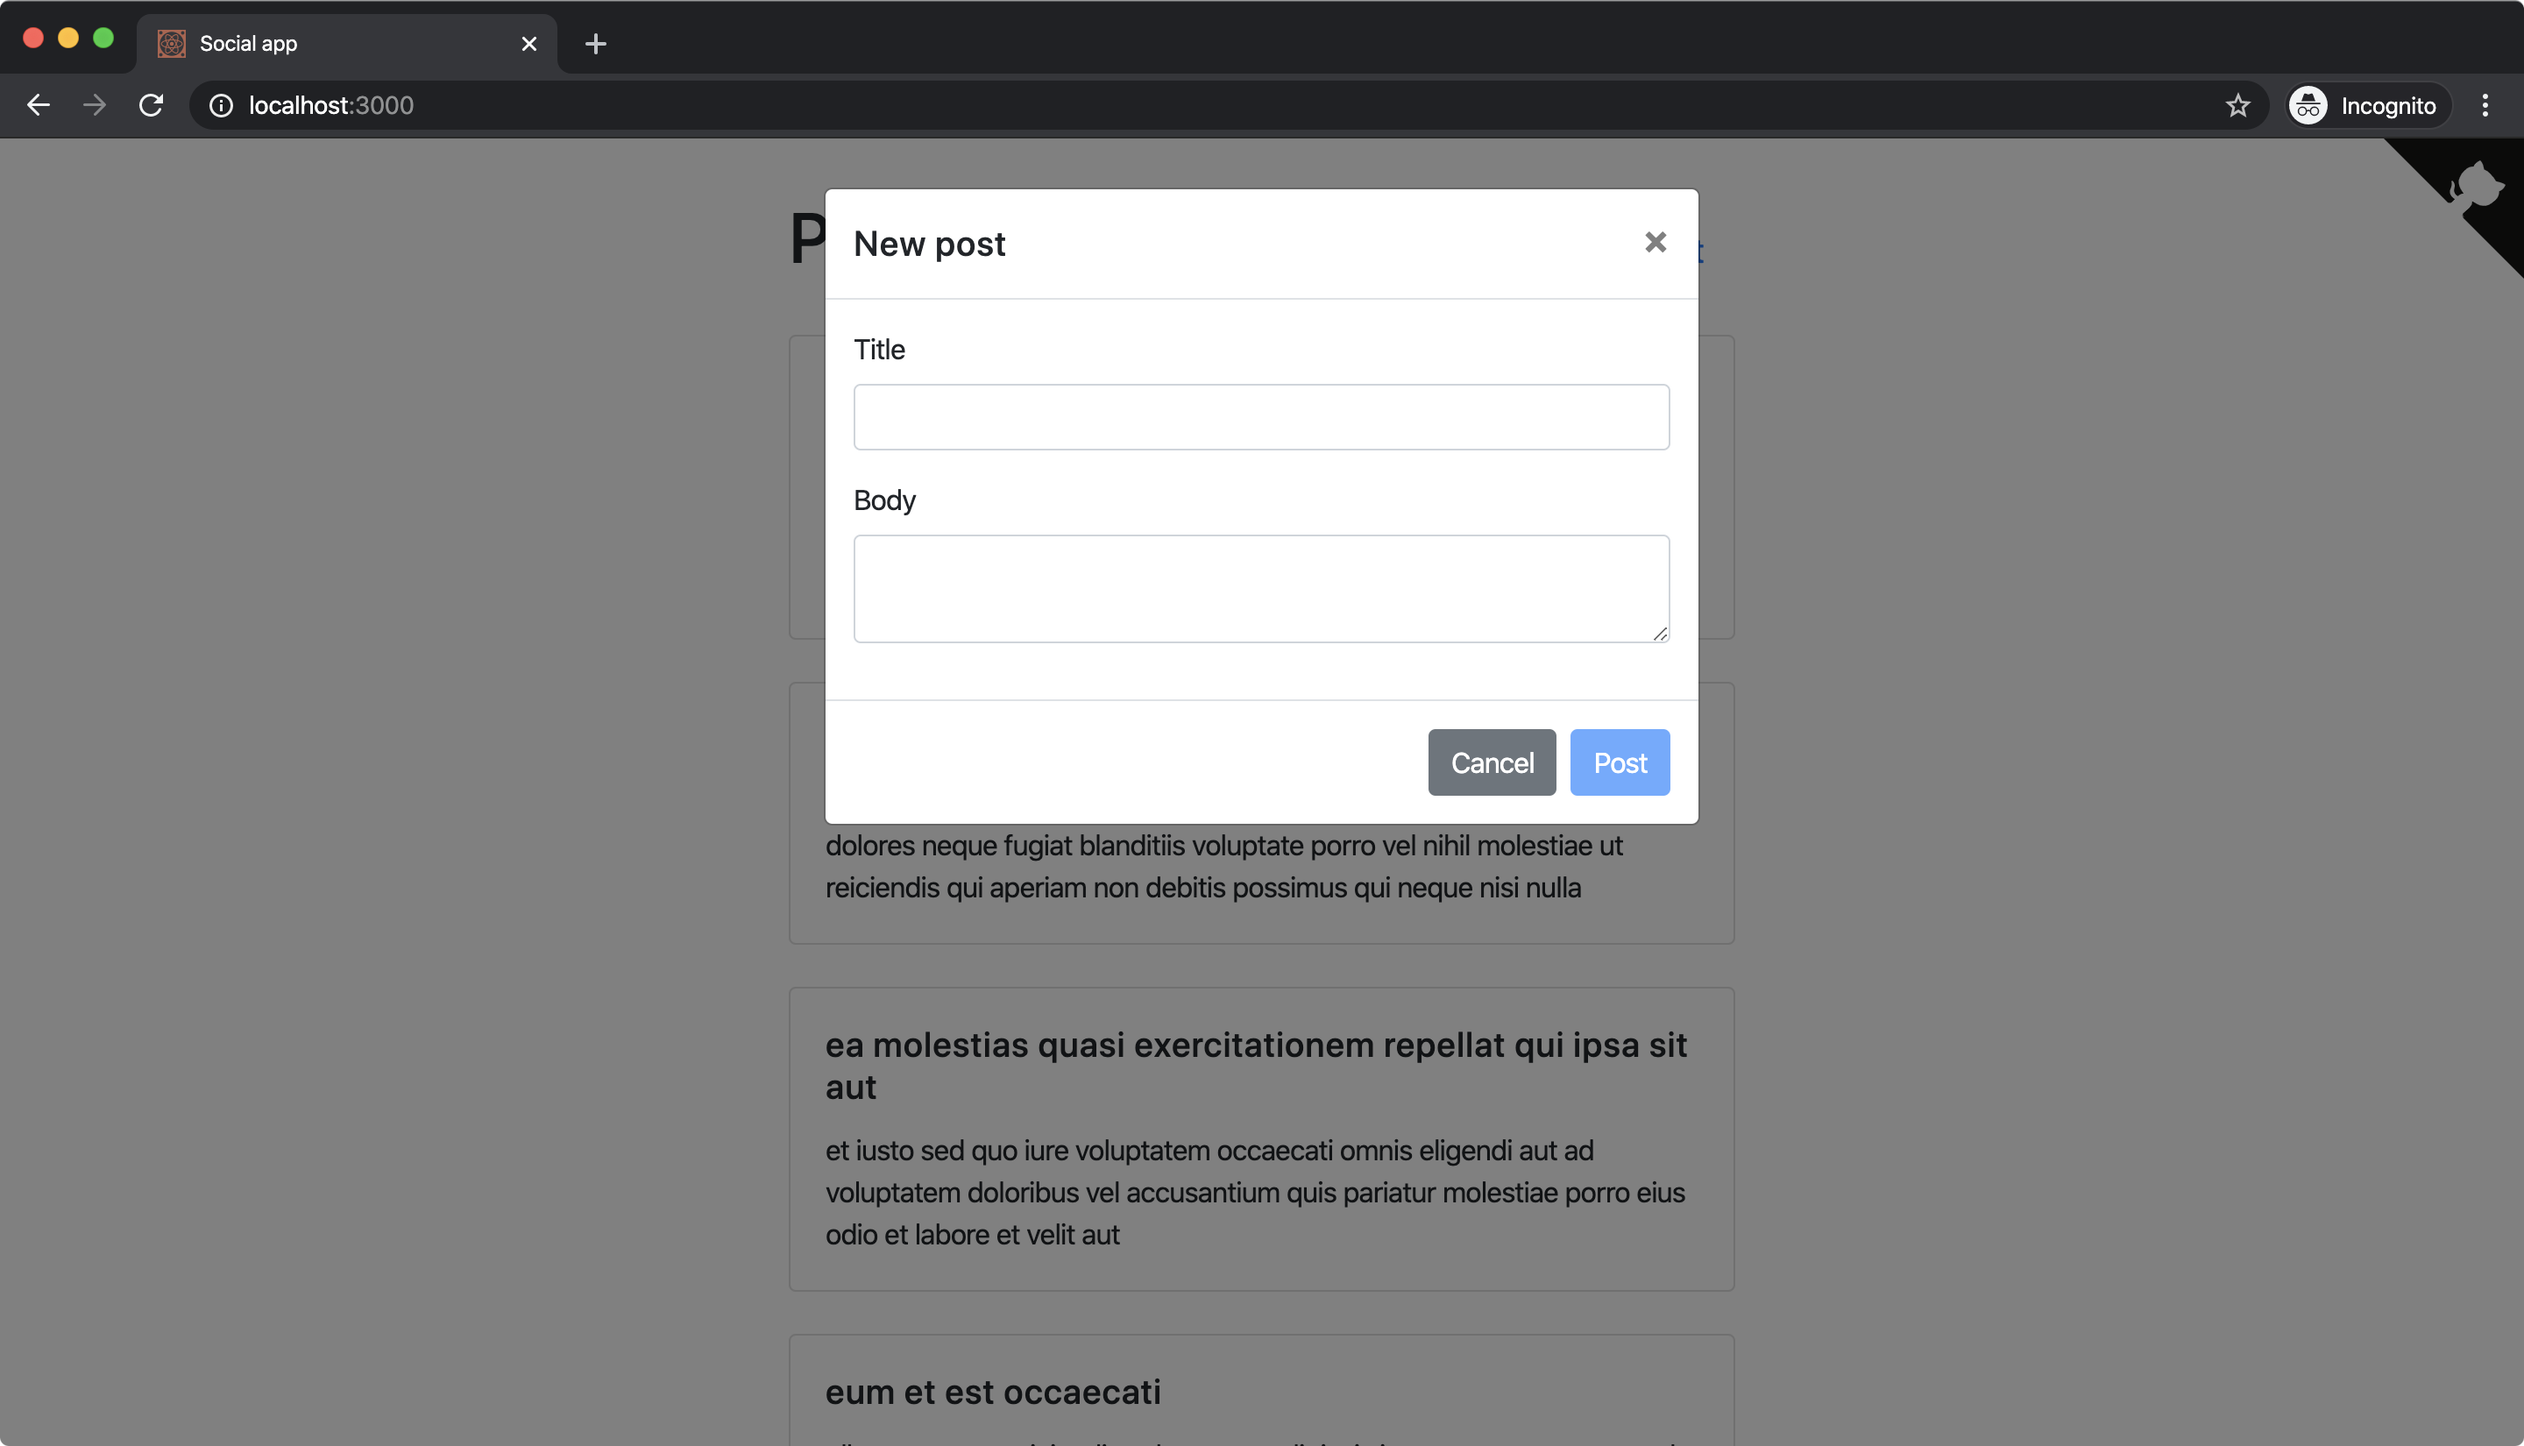
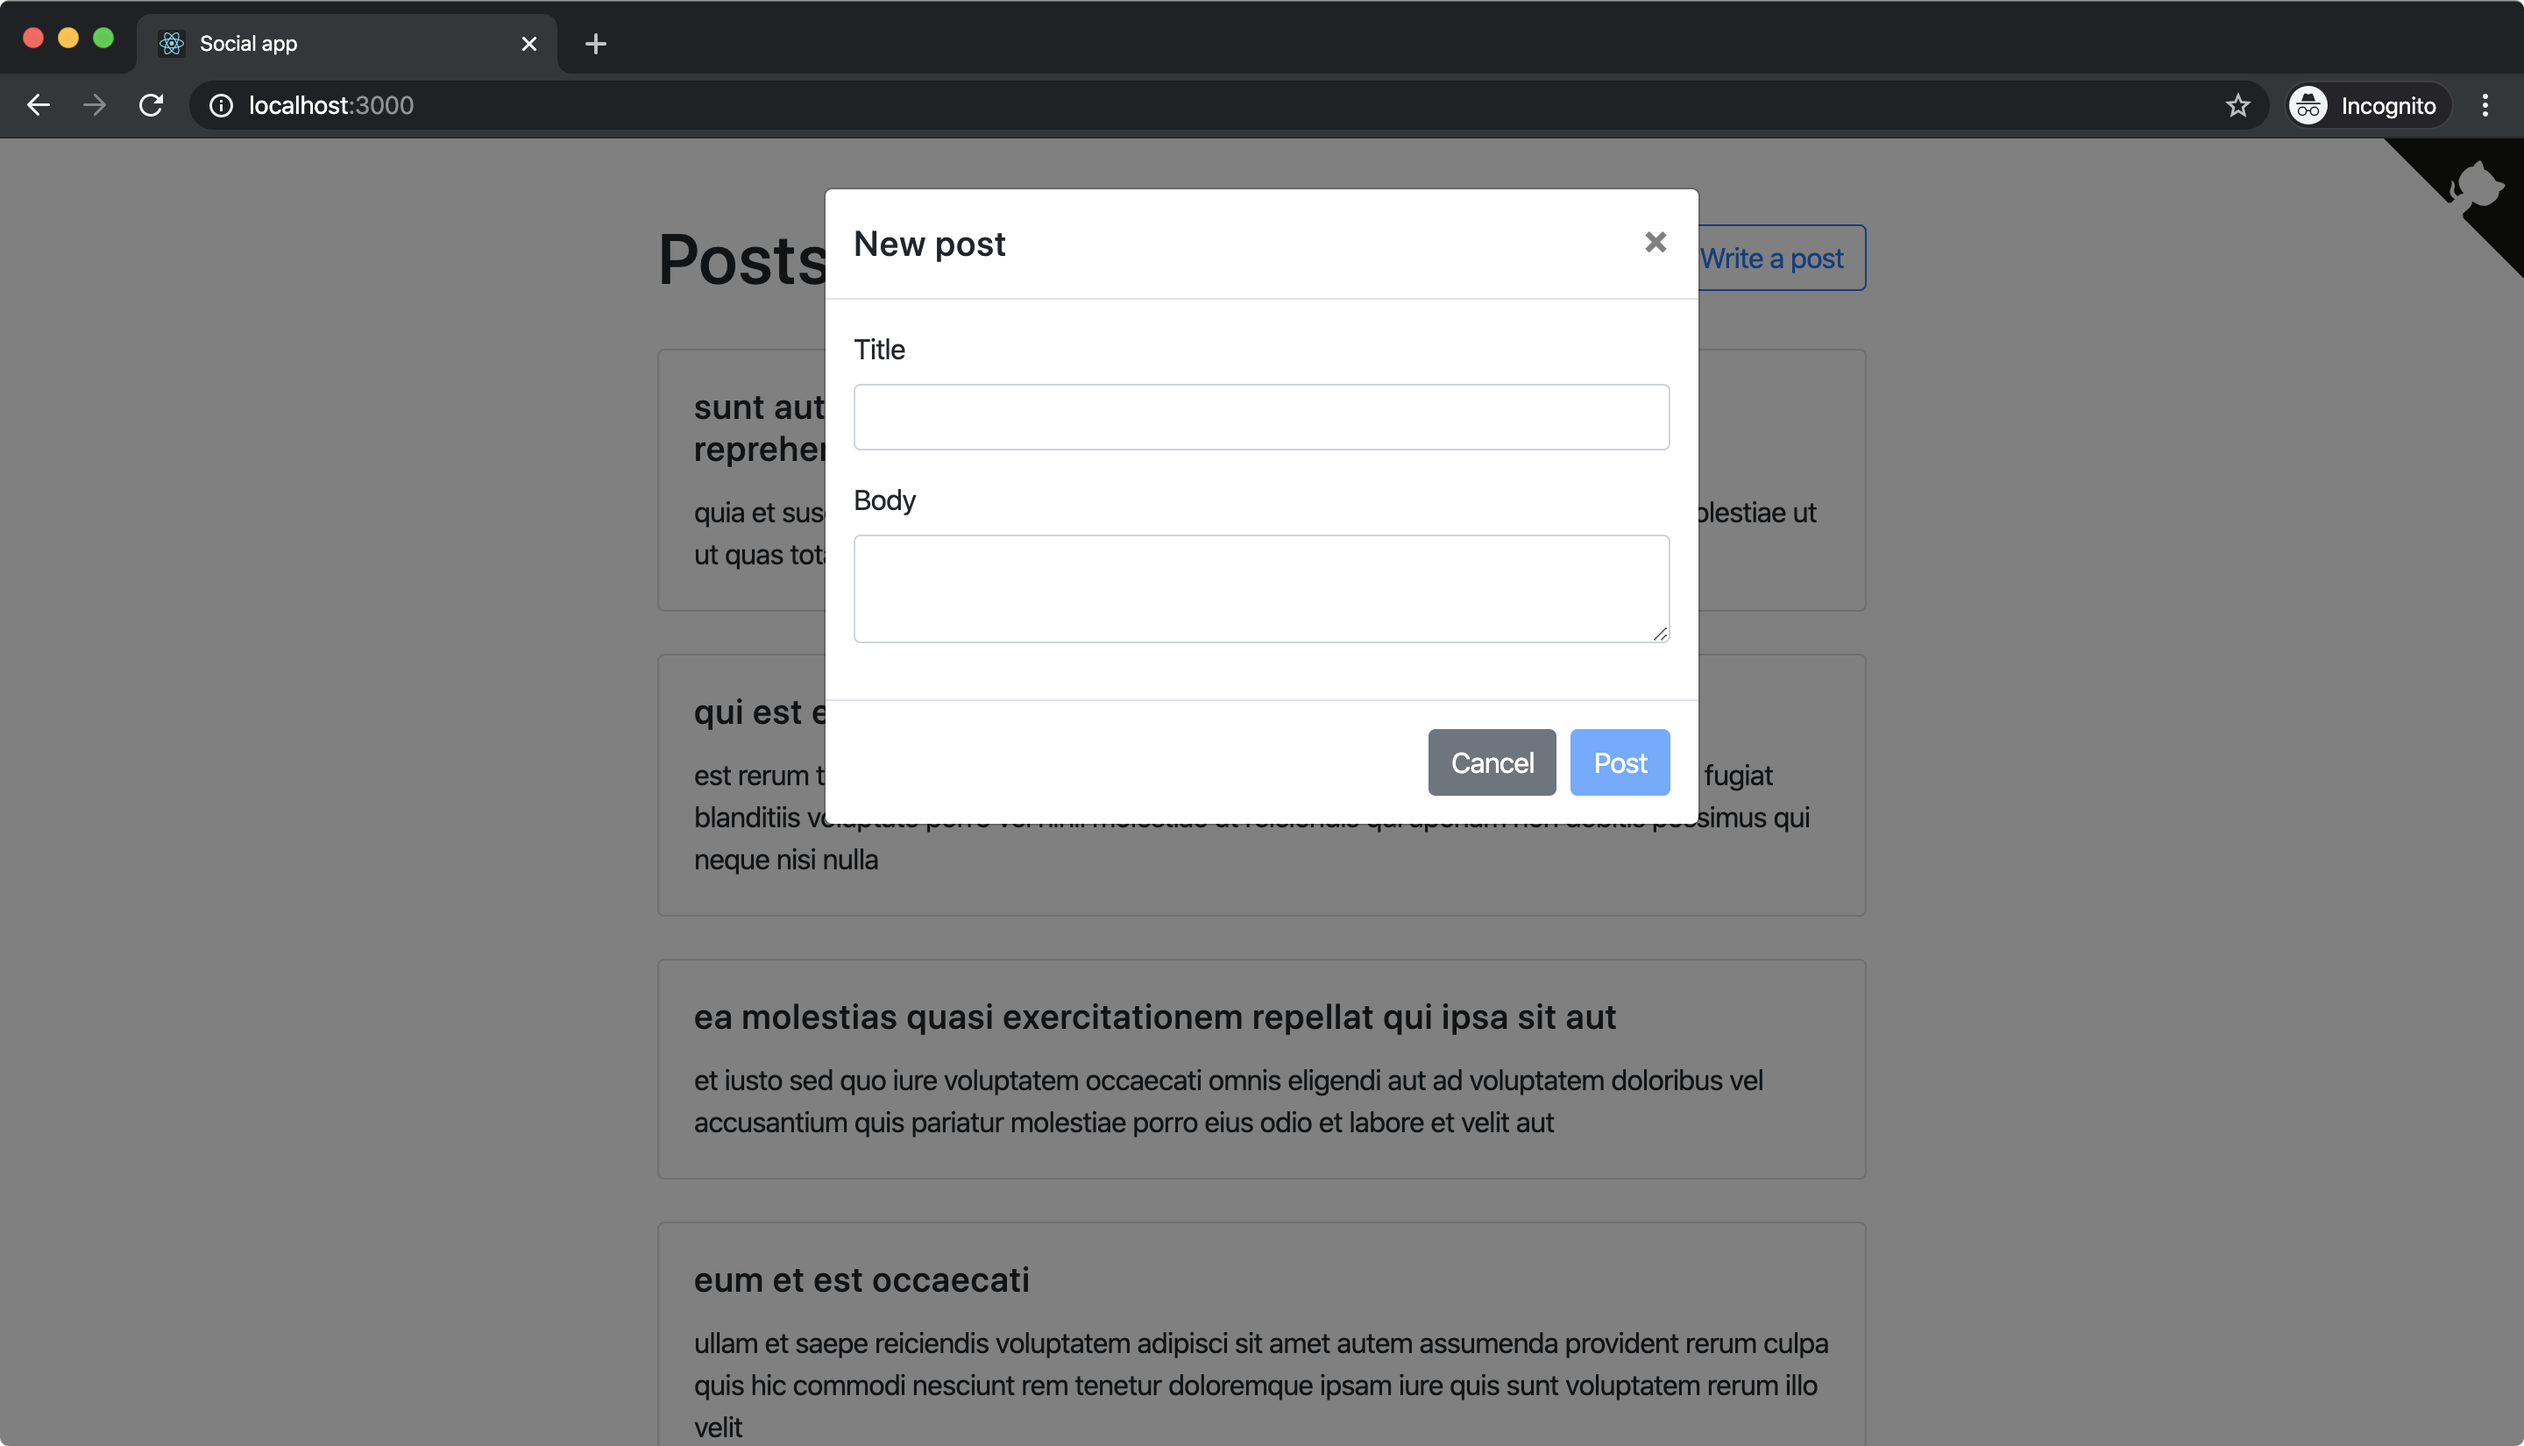
Update layout

diff --git a/src/features/Posts/Posts.js b/src/features/Posts/Posts.js
@@ -9,7 +9,9 @@ const Posts = ({ posts, isFetching, showAddPostModal }) =>
   <Wrapper>
     <TitleWrapper>
       <Title>Posts</Title>
-      <Button color="primary" outline onClick={showAddPostModal}>Write a post</Button>
+      <Button color="primary" outline onClick={showAddPostModal}>
+        Write a post
+      </Button>
     </TitleWrapper>
     <PostList posts={posts} isLoading={isFetching}/>
     <AddPostModal />
@@ -24,14 +26,14 @@ Posts.propTypes = {
 export default Posts;
 
 const Wrapper = styled.section`
-  margin: 32px 0;
+  margin: 3rem 0;
 `;
 
 const TitleWrapper = styled.div`
   display: flex;
   justify-content: space-between;
   align-items: center;
-  margin-bottom: 24px;
+  margin-bottom: 2rem;
 `;
 
 const Title = styled.h1`

diff --git a/src/services/rest.js b/src/services/rest.js
@@ -4,11 +4,27 @@ import { API_URL } from '../config';
 const restService = {};
 
 export const fetchPosts = () =>
-  axios.get(`${API_URL}/posts`)
+  axios.get(
+    `${API_URL}/posts`,
+    {
+      headers: {
+        'Access-Control-Allow-Origin': '*'
+      }
+    }
+  )
     .then(response => response.data);
 
-export const addPost = post => axios.post(`${API_URL}/posts`, post)
-  .then(response => response.data);
+export const addPost = post =>
+  axios.post(
+    `${API_URL}/posts`,
+    post,
+    {
+      headers: {
+        'Content-Type': 'application/json; charset=UTF-8'
+      }
+    }
+  )
+    .then(response => response.data);
 
 restService.api = {
   fetchPosts,

diff --git a/src/features/Posts/PostsList/PostsList.js b/src/features/Posts/PostsList/PostsList.js
@@ -33,10 +33,14 @@ export default PostsList;
 
 const CustomLoadingIndicator = styled(LoadingIndicator)`
   width: 100%;
-  margin: 24px 0;
+  margin: 1.5rem 0;
   text-align: center;
 `;
 
 const CustomPost = styled(Post)`
-  margin-bottom: 24px;
+  margin-bottom: 1.5rem;
+
+  :last-child {
+    margin-bottom: 0;
+  }
 `;

diff --git a/src/features/App/App.js b/src/features/App/App.js
@@ -9,7 +9,7 @@ class App extends Component {
   render() {
     return (
       <main>
-        <Container>
+        <Container fluid>
           <Row>
             <Col xs="12" sm={{ size: 10, offset: 1 }} md={{ size: 6, offset: 3 }}>
               <Posts />
